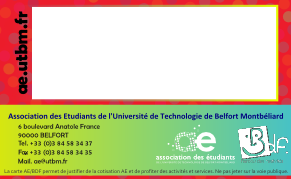
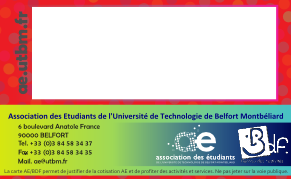
nouvelles cartes ae

Changed region(s): [[0.4639, 0.6704, 1.0, 0.9497], [0.3402, 0.0, 0.9588, 0.5866], [0.0309, 0.0559, 0.0928, 0.5307]]

diff --git a/include/pdf/carteae.inc.php b/include/pdf/carteae.inc.php
@@ -53,10 +53,10 @@ class pdfcarteae extends FPDF
 
     $this->img_front[1] = $topdir."images/carteae/ae-front-A2010.png";
     $this->img_back[1] = $topdir."images/carteae/ae-back-A2010.png";
-    $this->img_front[2] = $topdir."images/carteae/assidu-front-A2009.png";
-    $this->img_back[2] = $topdir."images/carteae/assidu-back-A2009.png";
-    $this->img_front[3] = $topdir."images/carteae/amicale-front-A2009.png";
-    $this->img_back[3] = $topdir."images/carteae/amicale-back-A2009.png";
+    $this->img_front[2] = $topdir."images/carteae/assidu-front-A2010.png";
+    $this->img_back[2] = $topdir."images/carteae/assidu-back-A2010.png";
+    $this->img_front[3] = $topdir."images/carteae/amicale-front-A2010.png";
+    $this->img_back[3] = $topdir."images/carteae/amicale-back-A2010.png";
     $this->img_front[4] = $topdir."images/carteae/crous-front-A2010.png";
     $this->img_back[4] = $topdir."images/carteae/crous-back-A2010.png";
 
@@ -83,20 +83,7 @@ class pdfcarteae extends FPDF
         )
       );
 
-    $this->pos[2] = array (
-      "photo" => array ("x"=>4.1,"y"=>7.8,"w"=>26,8,"h"=>36,8),
-      "cbar" => array ("x"=>5,"y"=>4,2,"w"=>67,"h"=>25),
-      "front" =>
-        array (
-          "nom" => array ("x"=>51,"y"=>21,"w"=>27,"h"=>4.5),
-          "prenom" => array ("x"=>51,"y"=>25.5,"w"=>27,"h"=>4.5),
-          "surnom" => array ("x"=>51,"y"=>30,"w"=>27,"h"=>4.5),
-          "semestres" => array ("x"=>51,"y"=>34.5,"w"=>27,"h"=>4.5)
-        )
-      );
-
-    $this->pos[3] = $this->pos[2];
-    $this->pos[4] = $this->pos[1];
+    $this->pos[4] = $this->pos[3] = $this->pos[2] = $this->pos[1];
 
     $this->SetAutoPageBreak(false);
 
